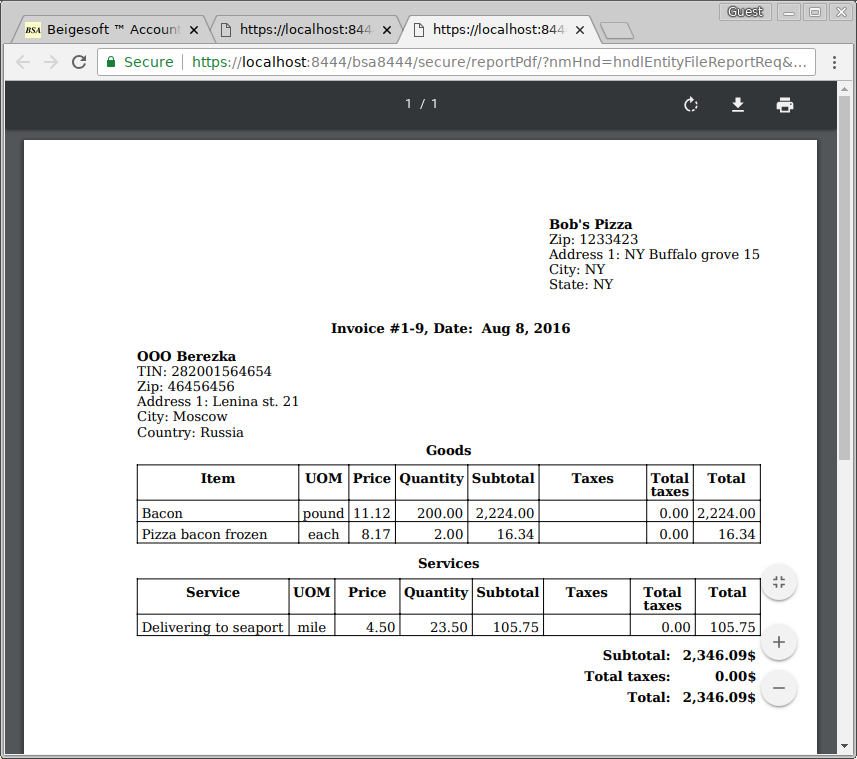
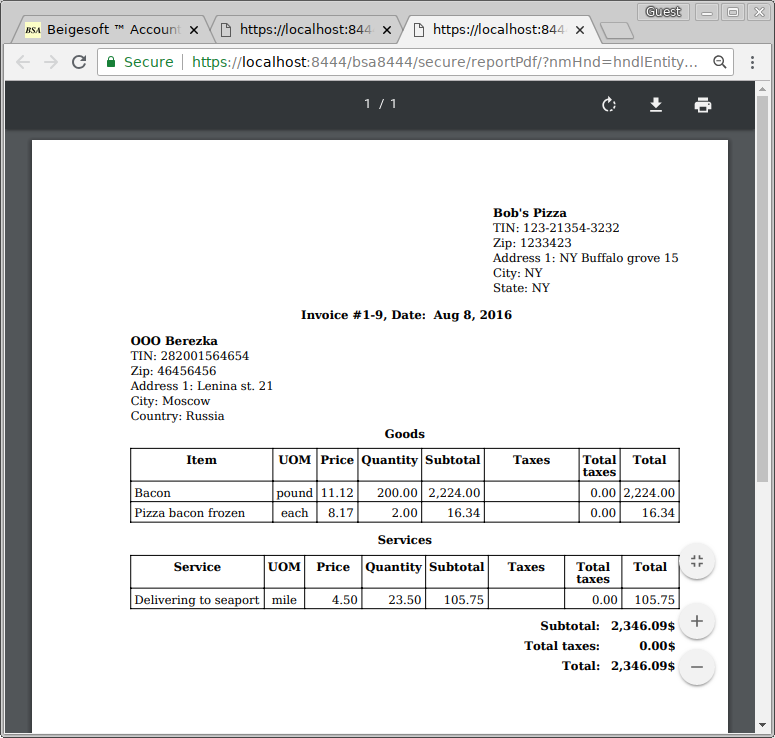
fixed balance, ledger

Changed region(s): [[0.0, 0.0, 1.0, 1.0], [0.3716, 0.2805, 0.8981, 0.4675]]

diff --git a/src/main/java/org/beigesoft/accounting/report/InvoiceReportPdf.java b/src/main/java/org/beigesoft/accounting/report/InvoiceReportPdf.java
@@ -142,7 +142,7 @@ public class InvoiceReportPdf<RS, WI>
       .fromPoints(2.0, 300.0, doc.getUnitOfMeasure()); //printer resolution
     doc.setBorder(widthNdot);
     doc.setContentPadding(0.0);
-    doc.setContentPaddingBottom(0.5);
+    doc.setContentPaddingBottom(1.0);
     DocTable<WI> tblOwner = docMaker.addDocTableNoBorder(doc, 1, 1);
     I18nAccounting i18nAccounting =
       (I18nAccounting) pAddParam.get("i18nAccounting");
@@ -152,13 +152,13 @@ public class InvoiceReportPdf<RS, WI>
     } else {
       tblOwner.getItsCells().get(0).setItsContent(accSet.getOrganization());
     }
+    int n = 0;
     if (accSet.getTaxIdentificationNumber() != null) {
       docMaker.addRowToDocTable(tblOwner);
-      tblOwner.getItsCells().get(1).setItsContent(this.srvI18n
+      tblOwner.getItsCells().get(++n).setItsContent(this.srvI18n
         .getMsg("taxIdentificationNumber", lang) + ": "
           + accSet.getTaxIdentificationNumber());
     }
-    int n = 0;
     if (accSet.getRegZip() != null) {
       docMaker.addRowToDocTable(tblOwner);
       tblOwner.getItsCells().get(++n).setItsContent(this.srvI18n
@@ -320,6 +320,7 @@ public class InvoiceReportPdf<RS, WI>
       tblTiGoods.setAlignHorizontal(EAlignHorizontal.CENTER);
       docMaker.makeDocTableWrapping(tblTiGoods);
       doc.setContentPadding(1.0);
+      doc.setContentPaddingBottom(1.5);
       DocTable<WI> tblGoods = docMaker
         .addDocTable(doc, 8, inv.getItsLines().size() + 1);
       tblGoods.setIsRepeatHead(true);
@@ -406,6 +407,7 @@ public class InvoiceReportPdf<RS, WI>
       tblTiServices.setAlignHorizontal(EAlignHorizontal.CENTER);
       docMaker.makeDocTableWrapping(tblTiServices);
       doc.setContentPadding(1.0);
+      doc.setContentPaddingBottom(1.5);
       DocTable<WI> tblServices = docMaker
         .addDocTable(doc, 8, inv.getServices().size() + 1);
       tblServices.setIsRepeatHead(true);
@@ -499,6 +501,7 @@ public class InvoiceReportPdf<RS, WI>
       tblTiTaxes.setAlignHorizontal(EAlignHorizontal.CENTER);
       docMaker.makeDocTableWrapping(tblTiTaxes);
       doc.setContentPadding(1.0);
+      doc.setContentPaddingBottom(1.5);
       DocTable<WI> tblTaxes = docMaker
         .addDocTable(doc, 2, inv.getTaxesLines().size() + 1);
       tblTaxes.getItsCells().get(0)

diff --git a/src/main/java/org/beigesoft/accounting/report/BalanceSheetPdf.java b/src/main/java/org/beigesoft/accounting/report/BalanceSheetPdf.java
@@ -204,7 +204,7 @@ public class BalanceSheetPdf<RS, WI> implements IBalanceSheetPdf {
     tblBal.getItsCells().get(pBalance.getTotalLinesLiabilities() * 4 + 7)
       .setAlignHorizontal(EAlignHorizontal.RIGHT);
     tblBal.getItsCells().get(pBalance.getTotalLinesLiabilities() * 4 + 7)
-      .setItsContent(pBalance.getTotalLiabilities().toString());
+      .setItsContent(prn(pAddParam, pBalance.getTotalLiabilities()));
     int oetIdx = pBalance.getTotalLinesLiabilities() * 4 + 10;
     tblBal.getItsCells().get(oetIdx)
       .setItsContent(this.srvI18n.getMsg("OwnersEquityTitle", lang));
@@ -235,7 +235,7 @@ public class BalanceSheetPdf<RS, WI> implements IBalanceSheetPdf {
     tblBal.getItsCells().get((totLeabOwnEq + 3) * 4 + 3)
       .setAlignHorizontal(EAlignHorizontal.RIGHT);
     tblBal.getItsCells().get((totLeabOwnEq + 3) * 4 + 3)
-      .setItsContent(pBalance.getTotalOwnersEquity().toString());
+      .setItsContent(prn(pAddParam, pBalance.getTotalOwnersEquity()));
     tblBal.getItsCells().get(lastRowIdx * 4 + 2)
       .setItsContent(this.srvI18n.getMsg("total_l_oe", lang));
     tblBal.getItsCells().get(lastRowIdx * 4 + 3)
